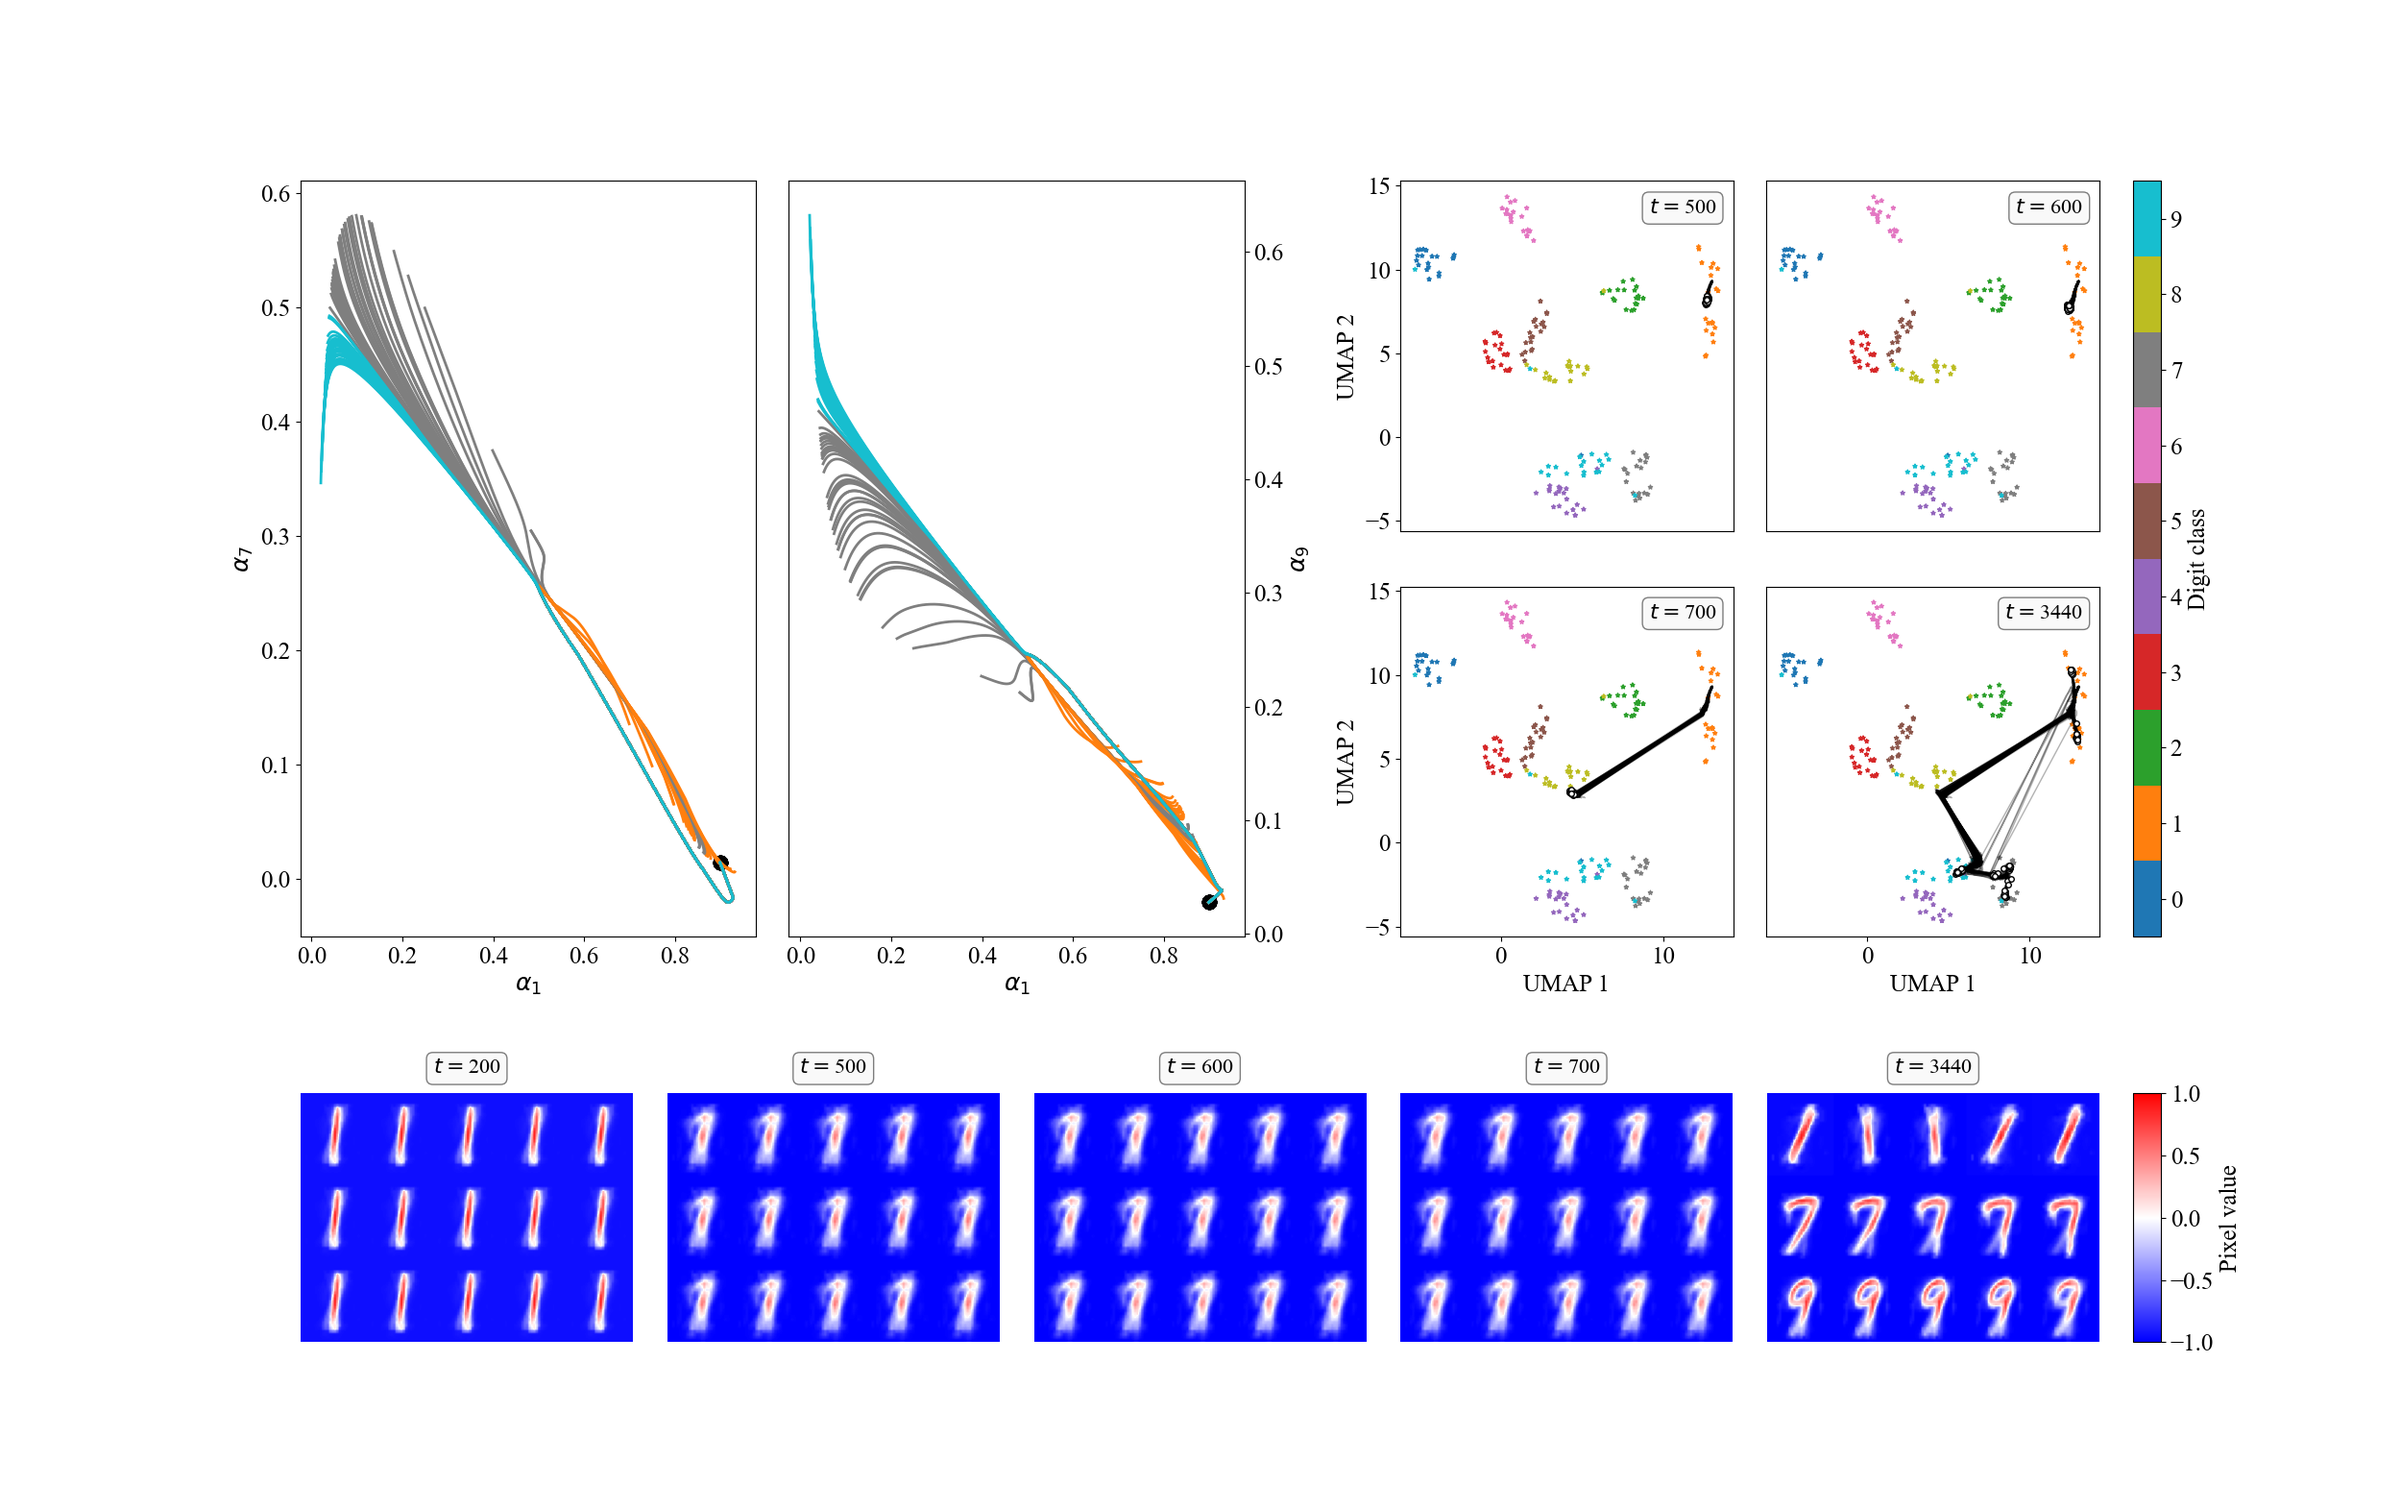
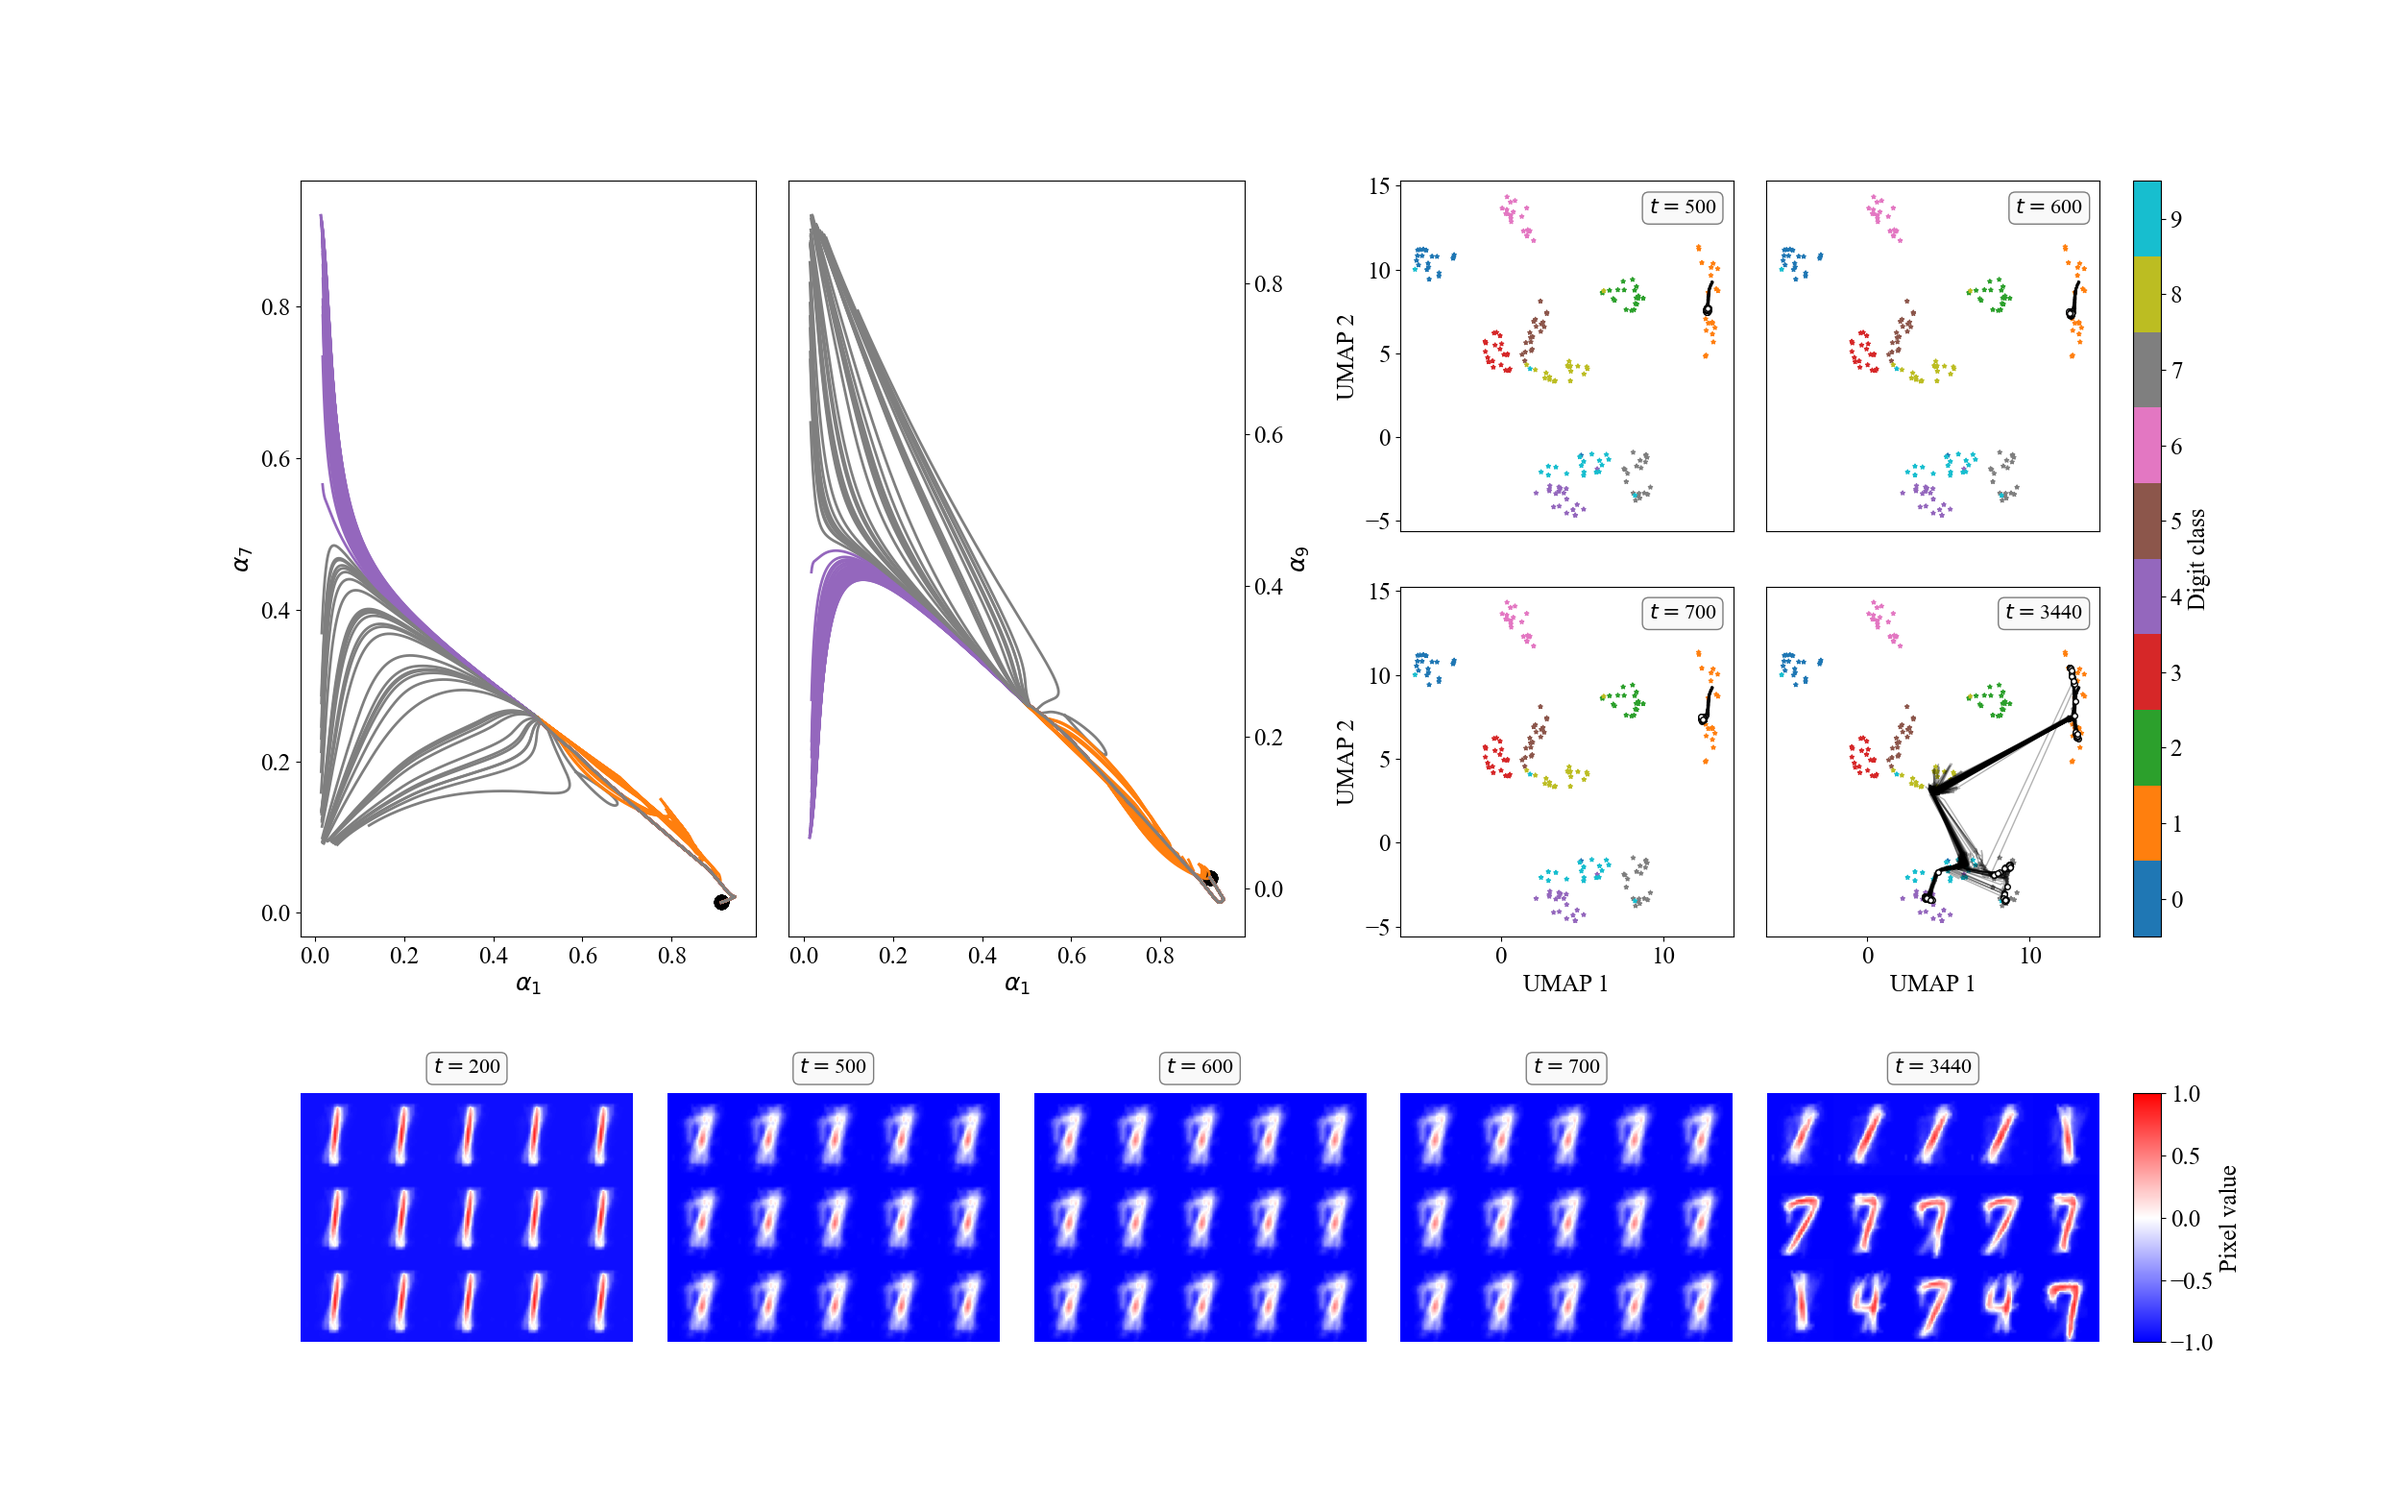
Few improvements interesting tmp.png results... maybe reducing noise?

diff --git a/paper - figure 1/generate_umap_embedding.py b/paper - figure 1/generate_umap_embedding.py
@@ -14,14 +14,14 @@ import umap.plot
 from main_module.KrotovV2_utils import *
 
 data_dir = "data/"
-prefix = "[1, 7, 9]/" # "main/"#
-n, temp = 40, 800
+prefix = "[1, 4, 7]/" # "main/"#
+n, temp = 3, 800
 
 
-isUMAPObjGenerated = True
+isUMAPObjAlreadyGenerated = True
 verbose = False
 
-if not isUMAPObjGenerated:
+if not isUMAPObjAlreadyGenerated:
     data_T = get_MNIST_train_images() # Trains on the entire MNIST alternatively, use -> #np.load(data_dir+"miniBatchs_images.npy")[0]
     keys = get_MNIST_train_labels()
     M = len(data_T)
@@ -71,7 +71,7 @@ for t in range(1, tmax//t_slice_size):
 np.save(data_dir+prefix+"memory_umap_embed_correlation_n"+str(n)+"_T"+str(temp), M_embedding)
 
 # Plot the UMAP movie for reference
-M_embedding = np.load(data_dir+prefix+"memory_umap_embed_correlation_n"+str(n)+"_T"+str(temp))
+M_embedding = np.load(data_dir+prefix+"memory_umap_embed_correlation_n"+str(n)+"_T"+str(temp)+".npy")
 t = 0 
 pts, = ax.plot(M_embedding[t, :, 0], M_embedding[t, :, 1], marker=".", markersize=5, linestyle="", color="k")
 text = ax.text(0.05, 0.95, "t=", transform=ax.transAxes, fontsize=14, verticalalignment='top')

diff --git a/paper - figure 2/Figure_2_plot.py b/paper - figure 2/Figure_2_plot.py
@@ -21,8 +21,8 @@ from main_module.KrotovV2_utils import *
 
 n, temp = 30, 800
 data_dir = "../paper - figure 1/data/"
-subdir = "[1, 7, 9]/"
-selected_digits = [1, 7, 9]
+subdir = "[1, 4, 7]/"
+selected_digits = [1, 4, 7]
 saving_dir = data_dir+subdir+"trained_net_n"+str(n)+"_T"+str(temp)+".npz"
 
 
@@ -56,7 +56,7 @@ indices = np.asarray(indices, dtype=int)
 
 # Use the time stamps file or manually get timestamps from UMAP movies.
 # Handpicked, notice this is /10 because of the UMAP timesteps
-t_s = [20, 50, 60, 70, 344] 
+t_s = [20, 70, 120, 150, 344] 
 t_samples = np.asarray(t_s)*10
 
 
@@ -165,7 +165,7 @@ ax_UMAP_1 = np.asarray([axs['1'], axs['2'], axs['3'], axs['4']])
 UMAP_plot(ax_UMAP_1)
 
 ax_split_1 = np.asarray([axs['A'], axs['B']])
-split_plot(ax_split_1, 200, 2000)
+split_plot(ax_split_1, 200, 3000)
 
 ax_cb_UMAP = axs['0']
 tab10_cmap = matplotlib.cm.tab10
